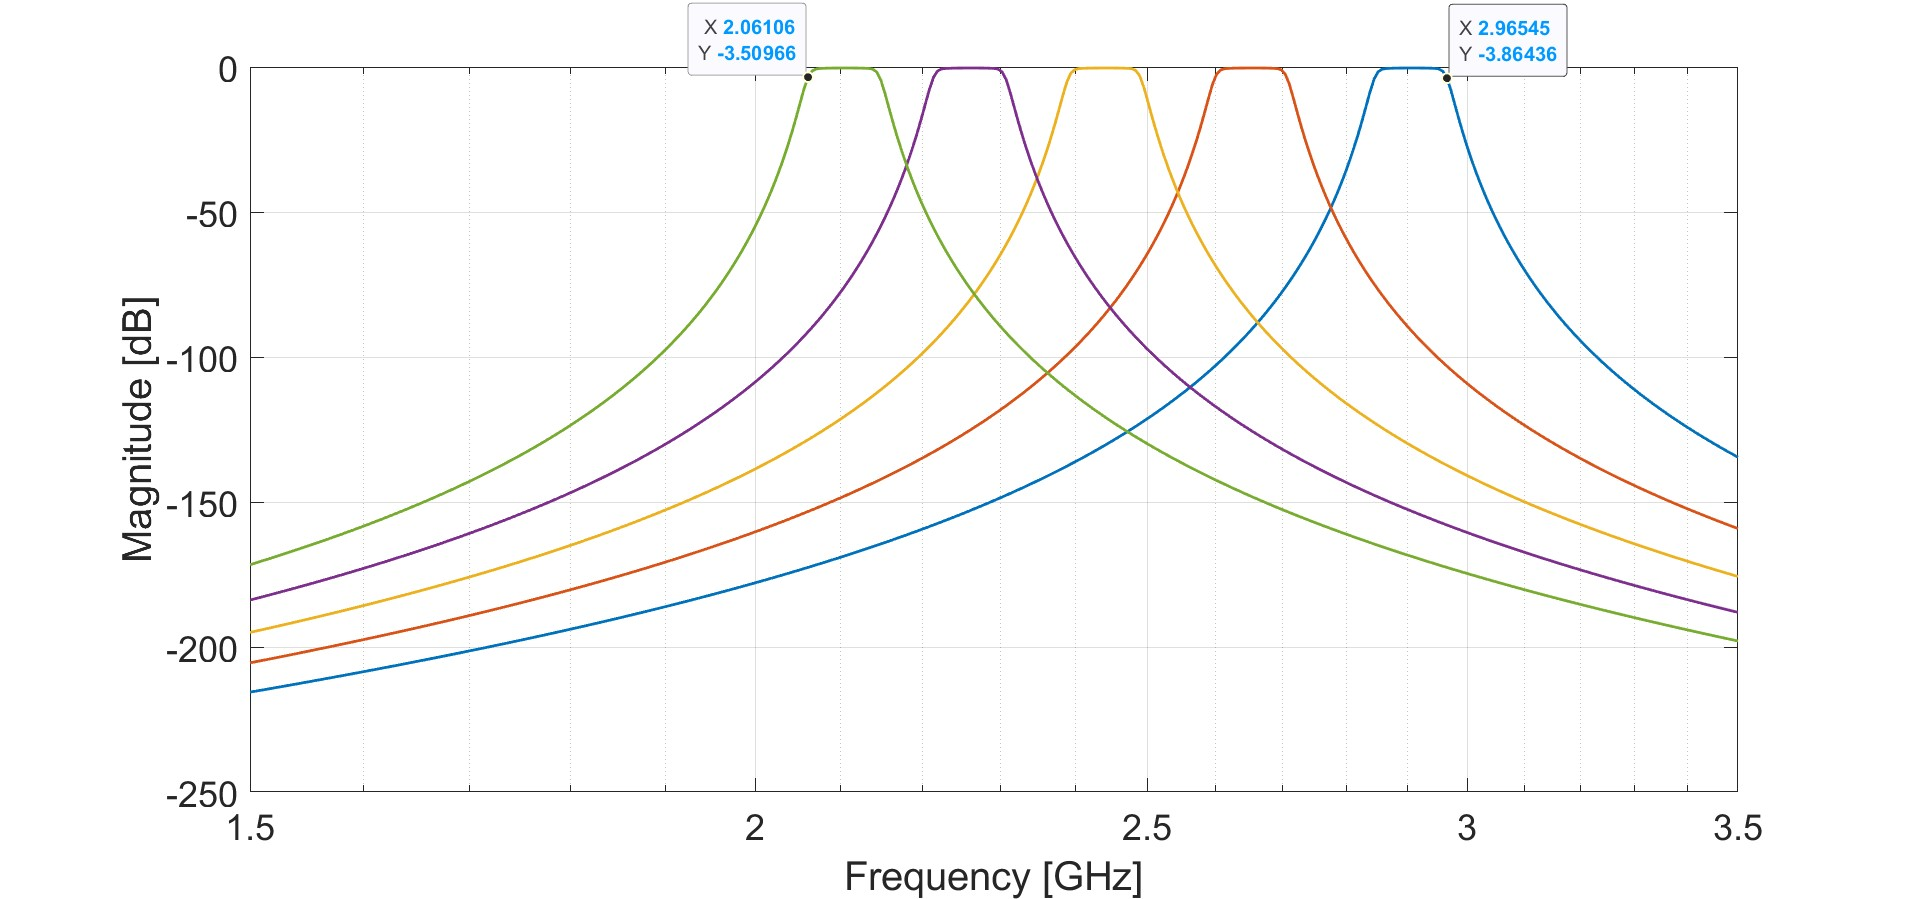
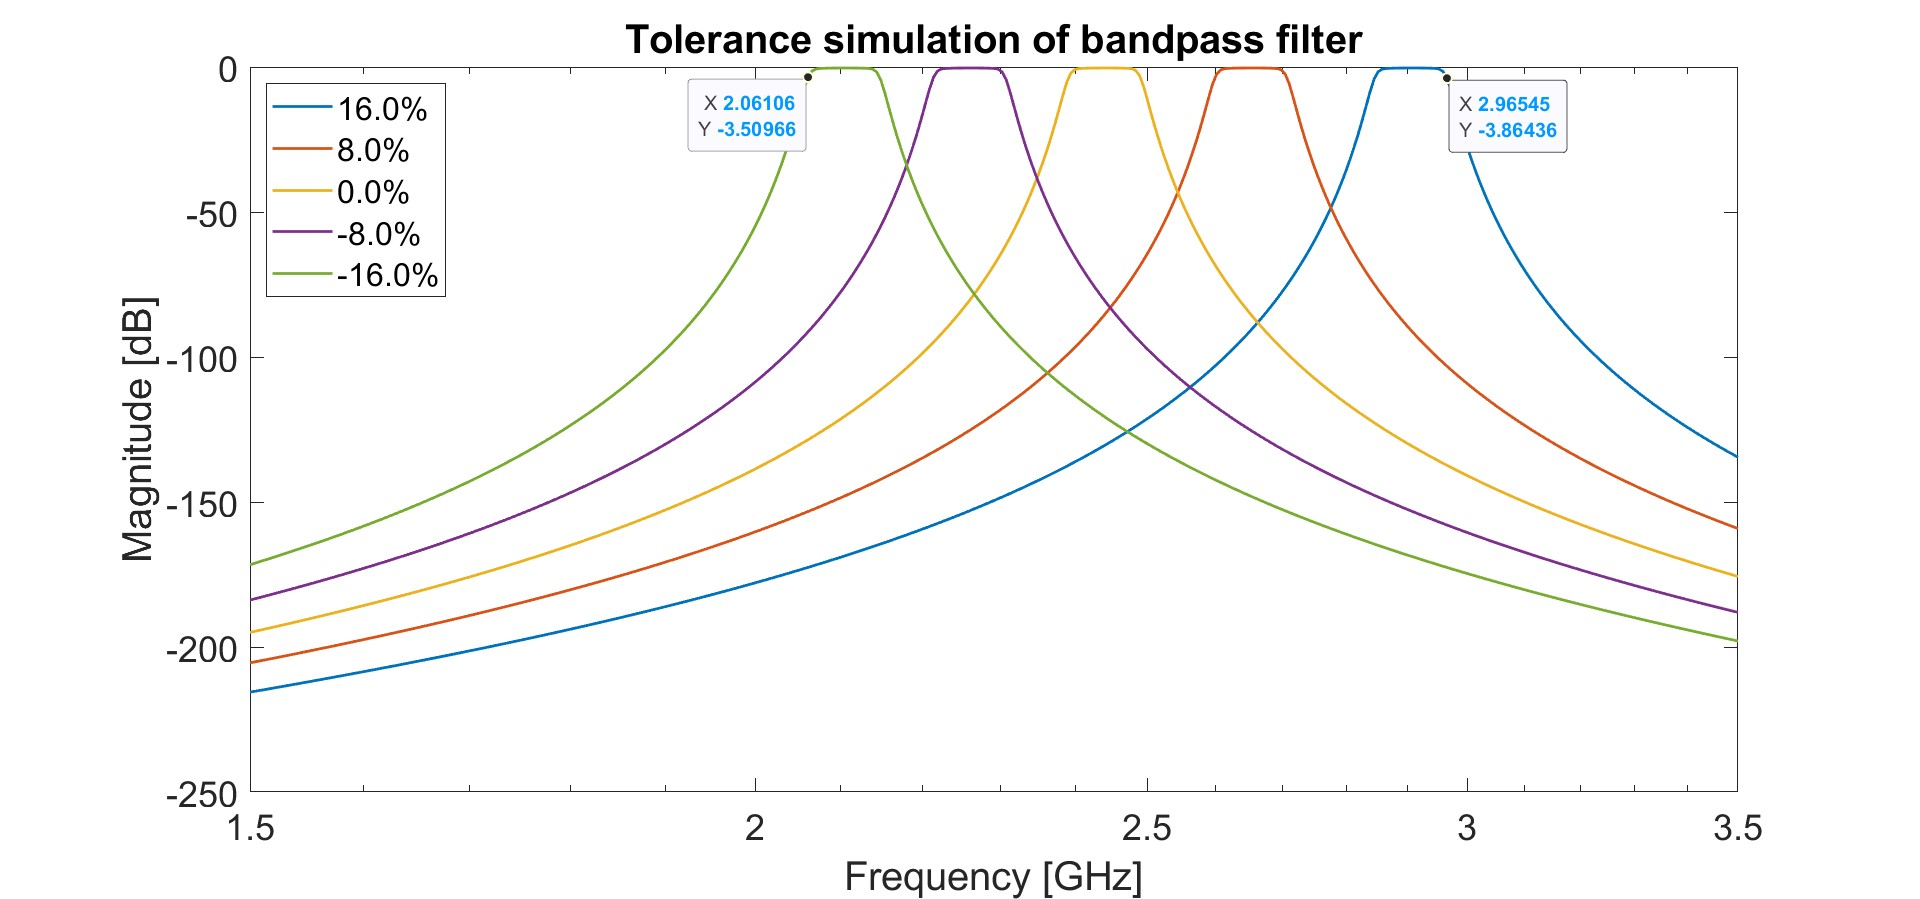
change more figures ...

Changed region(s): [[0.3125, 0.0, 0.7188, 0.1557], [0.1562, 0.0934, 0.2188, 0.3426], [0.75, 0.0, 0.8125, 0.1869]]

diff --git a/test_data/antenna_array/s11_smith_swr/antenna_array_s11_swr_plot_script.m b/test_data/antenna_array/s11_smith_swr/antenna_array_s11_swr_plot_script.m
@@ -6,47 +6,68 @@ T2 = readtable('final_s11_2.CSV');
 T3 = readtable('final_s11_3.CSV');
 T4 = readtable('final_s11_4.CSV');
 
-figure
-subplot(2,2,1);
+T1.freq = T1.freq*1e-9;
+T2.freq = T2.freq*1e-9;
+T3.freq = T3.freq*1e-9;
+T4.freq = T4.freq*1e-9;
+
+% Set figure size to 1920x1080 pixels
+FigH = figure('Position', get(0, 'Screensize'));
+
+% Create the tiled layout
+t = tiledlayout(2, 1);
+
+% First plot
+nexttile
 p1 = plot(T1.freq, T1.dB);
 p1.LineWidth = 2;
 p1.Color = '#282a36';
-xlabel('Frequency [GHz]','FontSize',12);
-ylabel('Magnitude [dB]','FontSize',12);
-lgd = legend('Antenna1');
-title('S11')
-lgd.FontSize = 14;
-grid on
-subplot(2,2,2);
+xlabel('Frequency [GHz]', 'FontSize', 12);
+ylabel('Magnitude [dB]', 'FontSize', 12);
+title('S11');
+set(gca, 'FontSize', 18);
+legend('Antenna 1');
+grid on;
+
+% Second plot
+nexttile
 p2 = plot(T2.freq, T2.dB);
 p2.LineWidth = 2;
 p2.Color = '#ff5555';
-xlabel('Frequency [GHz]','FontSize',12);
-ylabel('Magnitude [dB]','FontSize',12);
-lgd = legend('Antenna2');
-title('S11')
-lgd.FontSize = 14;
-grid on
-subplot(2,2,3);
+xlabel('Frequency [GHz]', 'FontSize', 12);
+ylabel('Magnitude [dB]', 'FontSize', 12);
+title('S11');
+set(gca, 'FontSize', 18);
+legend('Antenna 2');
+grid on;
+
+% Export the figure
+exportgraphics(t, 'C:\Users\johba\esd5_project\gitfigures\appendix\antenna_tests\antenna_array_s11_test_1.png', 'Resolution', 300); % 1920x1080 pixels
+
+% Set figure size to 1920x1080 pixels
+FigH = figure('Position', get(0, 'Screensize'));
+q = tiledlayout(2,1);
+nexttile
 p3 = plot(T3.freq, T3.dB);
 p3.LineWidth = 2;
 p3.Color = '#ffb86c'
 xlabel('Frequency [GHz]','FontSize',12);
 ylabel('Magnitude [dB]','FontSize',12);
-lgd = legend('Antenna3');
 title('S11')
-lgd.FontSize = 14;
+set(gca,'FontSize',18)
+legend('Antenna 3');
 grid on
-subplot(2,2,4);
+nexttile
 p4 = plot(T4.freq, T4.dB);
 p4.LineWidth = 2;
 p4.Color = '#6272a4'
 xlabel('Frequency [GHz]','FontSize',12);
 ylabel('Magnitude [dB]','FontSize',12);
-lgd = legend('Antenna4');
 title('S11')
-lgd.FontSize = 14;
+set(gca,'FontSize',18)
+legend('Antenna 4');
 grid on
+exportgraphics(q, 'C:\Users\johba\esd5_project\gitfigures\appendix\antenna_tests\antenna_array_s11_test_2.png', 'Resolution', 300); % 1920x1080 pixels
 %% Plot for SWR test of final antenna
 close all
 clear

diff --git a/rf_front_end/bandpass_filter/matlab_plot_scripts/bandpass_plot_script_with_tolerances.m b/rf_front_end/bandpass_filter/matlab_plot_scripts/bandpass_plot_script_with_tolerances.m
@@ -1,11 +1,15 @@
+close all
+clear
 A = readtable('bandpass_scaled_tolerances.txt');
 R = rmmissing(A);
-
 R1 = R(1:369,:);
 R2 = R(370:738,:);
 R3 = R(739:1107,:);
 R4 = R(1108:1476,:);
 R5 = R(1477:1845,:);
+
+N = -3+max(R1.Var2);
+[~,closestIndex] = min(abs(N-R1));
 s = semilogx(R1.(1)*1E-9, R1.(2));
 s(1).LineWidth = 1.4;
 hold on
@@ -23,4 +27,11 @@ s4(1).LineWidth = 1.4;
 xlabel('Frequency [GHz]','FontSize',14);
 ylabel('Magnitude [dB]','FontSize',14);
 set(gca,'FontSize',18);
-grid on
+% Define the range
+range = -16:8:16;
+formattedStrings = cell(size(range));
+for i = 1:length(range)
+    formattedStrings{i} = sprintf('%.1f%%', range(i));
+end
+legend(flip(formattedStrings),'Location','northwest')
+title('Tolerance simulation of bandpass filter')
